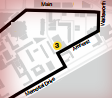
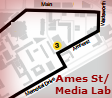
tech shuttle images

Changed region(s): [[0.4821, 0.7347, 0.9911, 0.9796]]

diff --git a/node/public/javascripts/tech.js b/node/public/javascripts/tech.js
@@ -82,13 +82,14 @@ function handlePredictions3(data) {
 
 function techImage(minutes){
 	minutesToImage = new Object();
+	minutesToImage['23'] = '7'; minutesToImage['22'] = '7'; minutesToImage['21'] = '7';
 	minutesToImage['20'] = '7'; minutesToImage['19'] = '7'; minutesToImage['18'] = '7';
-	minutesToImage['17'] = '9'; minutesToImage['16'] = '9';
+	minutesToImage['17'] = '9'; minutesToImage['16'] = '9'; // Simmons
 	minutesToImage['15'] = '10'; // Vassar/Mass Ave
 	minutesToImage['14'] = '11'; minutesToImage['13'] = '11'; // Stata
 	minutesToImage['12'] = '1';	minutesToImage['11'] = '1'; // Kendall
-	minutesToImage['10'] = '2'; minutesToImage['9'] = '2';
-	minutesToImage['8'] = '3'; minutesToImage['7'] = '3'; minutesToImage['6'] = '3';
+	minutesToImage['10'] = '2'; minutesToImage['9'] = '2'; // Amherst/Wadswordth
+	minutesToImage['8'] = '3'; minutesToImage['7'] = '3'; minutesToImage['6'] = '3'; // Ames St./Media Lab
 	minutesToImage['5'] = '4'; minutesToImage['4'] = '4'; minutesToImage['3'] = '4'; // Kresge
 	minutesToImage['2'] = '5'; minutesToImage['1'] = '5'; // Burton
   var imageId = minutesToImage[minutes.toString()];
@@ -112,7 +113,7 @@ function handlePredictions2(data) {
 	time_elem0 = '';
 	time_elem1 = '';
 
-	if (dateFormat(new Date, "HH:MM") > "19:20" || dateFormat(new Date, "HH:MM") < "06:00") {
+	if (dateFormat(new Date, "HH:MM") > "19:10" || dateFormat(new Date, "HH:MM") < "06:00") {
 		$('.tech-map').attr("src", "").fadeOut();
 	}
 
@@ -174,7 +175,7 @@ function handlePredictions2(data) {
 							});
 						} else {
 							time_elem0 += "&nbsp;&nbsp;"
-							console.log("Loading image...")
+							//console.log("Loading image...")
 							techImage(predictions[0]["minutes"]);
 						}
         } else if (predictions[0].route_id == 'saferidecambwest') {

diff --git a/node/public/stylesheets/style.css b/node/public/stylesheets/style.css
@@ -322,6 +322,12 @@ ul.jta-tweet-list li a{
 		border-top-left-radius: 1vh;
 }
 
+.tech-route-img{
+	  position: absolute !important;
+  	top: 30% !important;
+	  left: 45% !important;
+}
+
 .red{
 		color: #ddd;
 		font-weight: bold;
@@ -336,7 +342,12 @@ ul.jta-tweet-list li a{
 .tech-map{
 	max-height: 150px;
 	margin: 5px 0 5px 15px;
-	opacity: 0.85;
+	opacity: 0.80;
+	border: 2px solid white;
+	border-top-right-radius: 3%;
+	border-bottom-left-radius: 3%;
+  border-top-left-radius: 7%;
+	border-bottom-right-radius: 7%;
 }
 
 .tech-time{
@@ -359,9 +370,6 @@ ul.jta-tweet-list li a{
 		background-color: black;
 		font-size: 4.2vmin;
 		padding: 0.15vh;
-		position: absolute;
-		left: 45%;
-		top: 42%;
 }
 
 .tech-next-time-plus{
@@ -370,9 +378,18 @@ ul.jta-tweet-list li a{
     font-size: 4.2vmin;
     padding: 0.15vh;
 		border-bottom-right-radius: 1vh;
-		position: absolute;
-		left: 60%;
-		top: 42%;
+}
+
+.tech-time-img{
+	position: absolute !important;
+	left: 45% !important;
+	top: 42% !important;
+}
+
+.tech-next-time-img{
+	position: absolute !important;
+	left: 60% !important;
+	top: 42% !important;
 }
 
 .menu{
